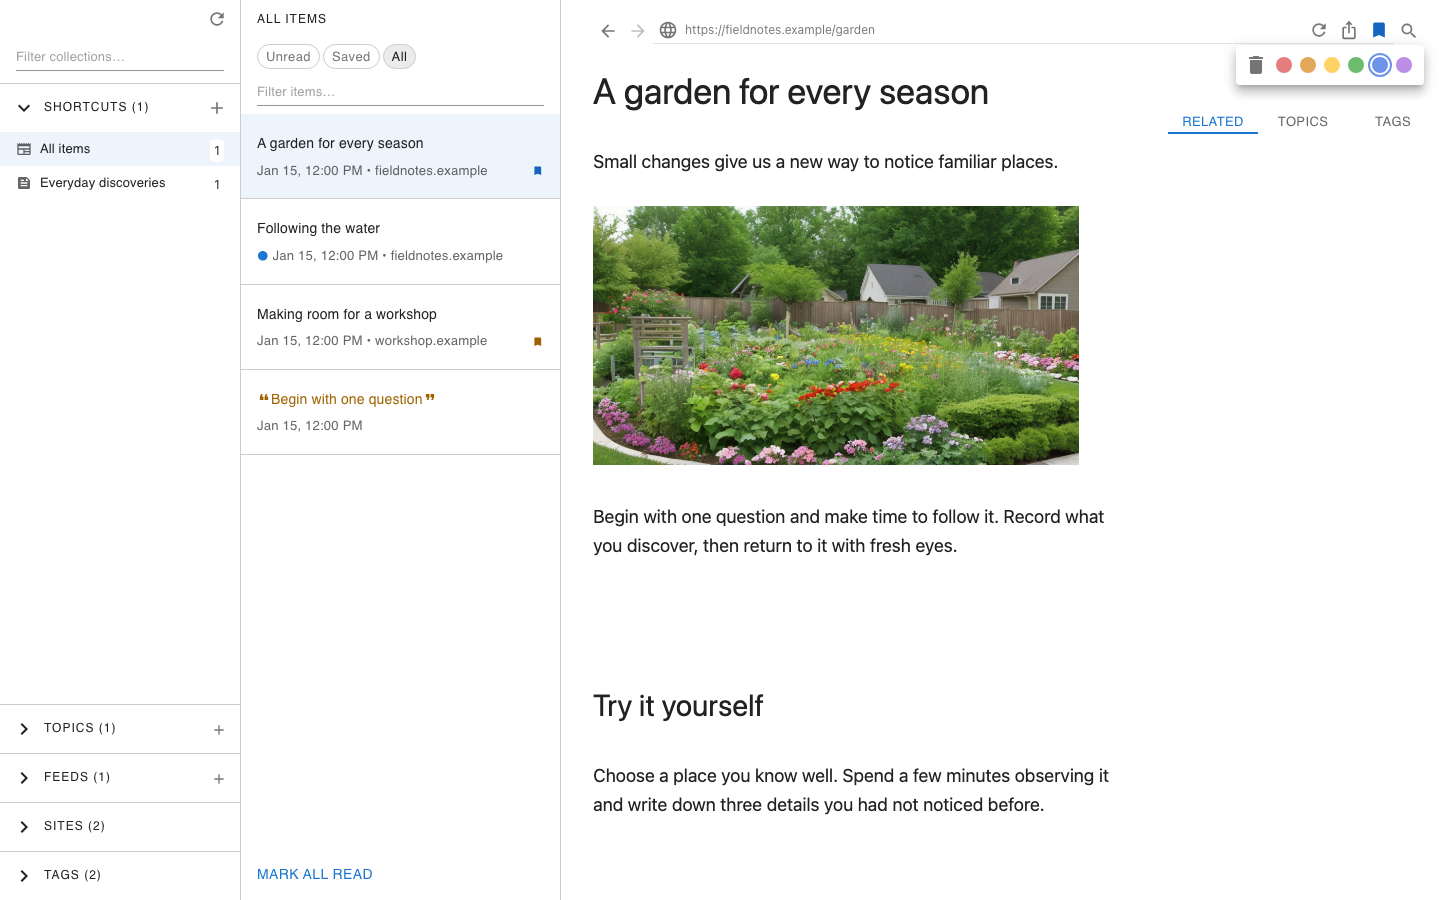
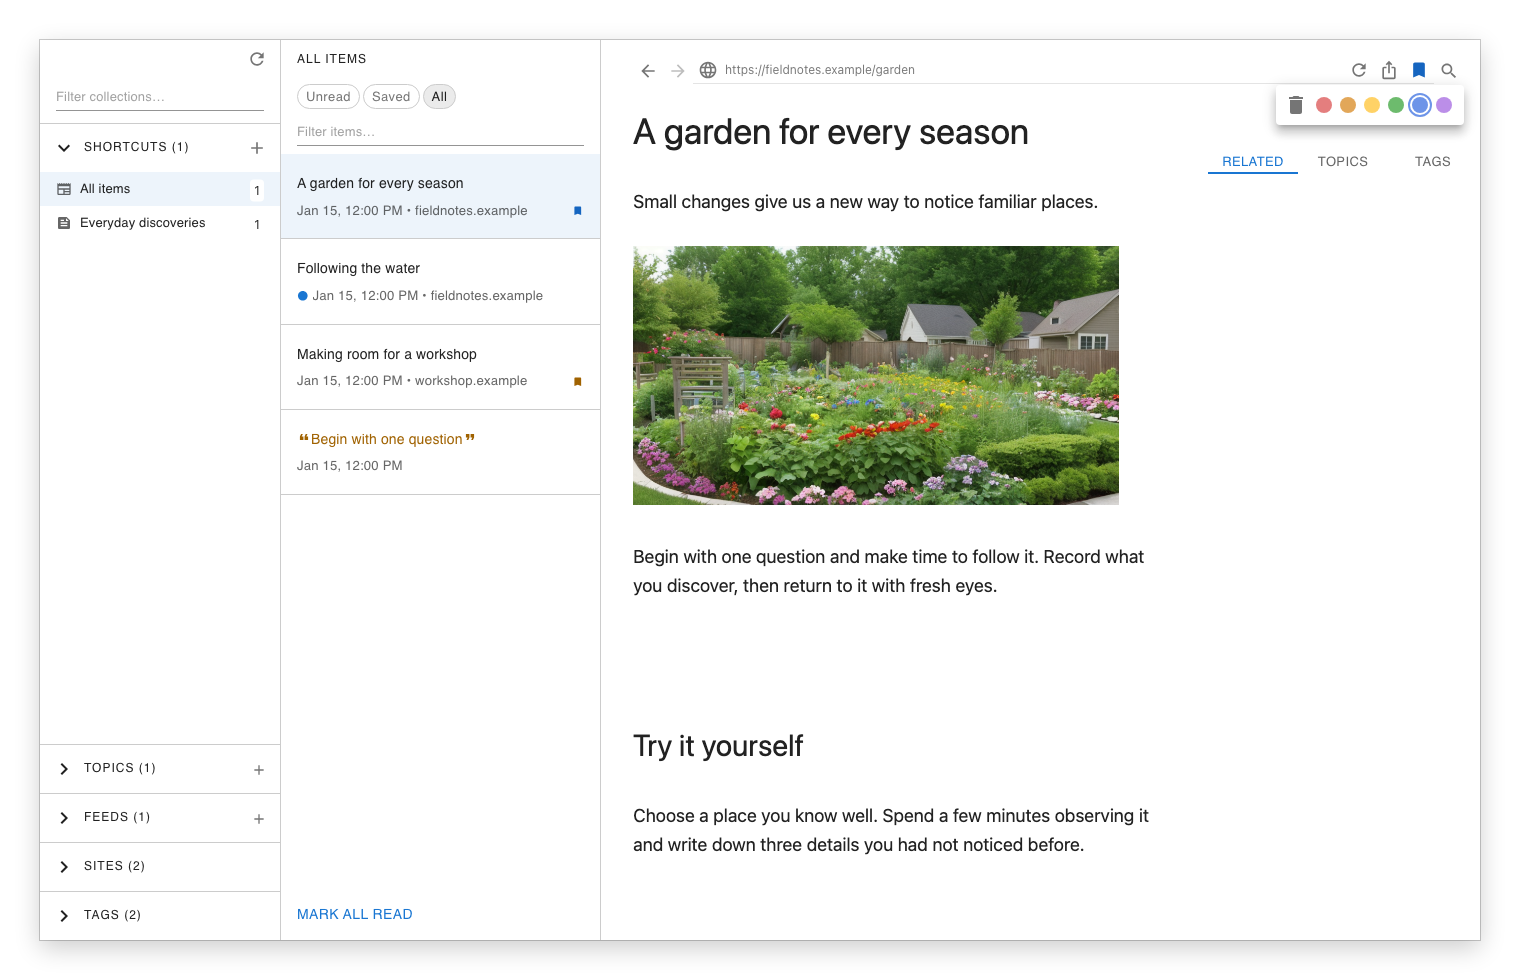
Update user guide screenshots

diff --git a/docs/development/browser_capture.md b/docs/development/browser_capture.md
@@ -126,7 +126,10 @@ npm run guide:capture
 reading, bookmark, annotation, Topic, and tag examples, and writes PNG files to
 `docs/images/user-guide/`. Light images retain the plain filenames; dark images
 use a `-dark` suffix. The guide uses `<picture>` with a dark color-scheme source
-and a light `<img>` fallback for viewers that do not support theme selection. It uses the viewport, appearance, locale, timezone,
+and a light `<img>` fallback for viewers that do not support theme selection.
+Each 1440 × 900 capture is framed with a subtle border, a soft shadow, and
+40 pixels of transparent padding, producing a 1520 × 980 PNG. The framing is
+baked into the image so it also appears in Markdown viewers without custom CSS. It uses the viewport, appearance, locale, timezone,
 fonts, and motion preference described above and waits for the visible results.
 The script also visits the example Site. It does not open a personal library or
 fetch the fictional feed/article URLs.
